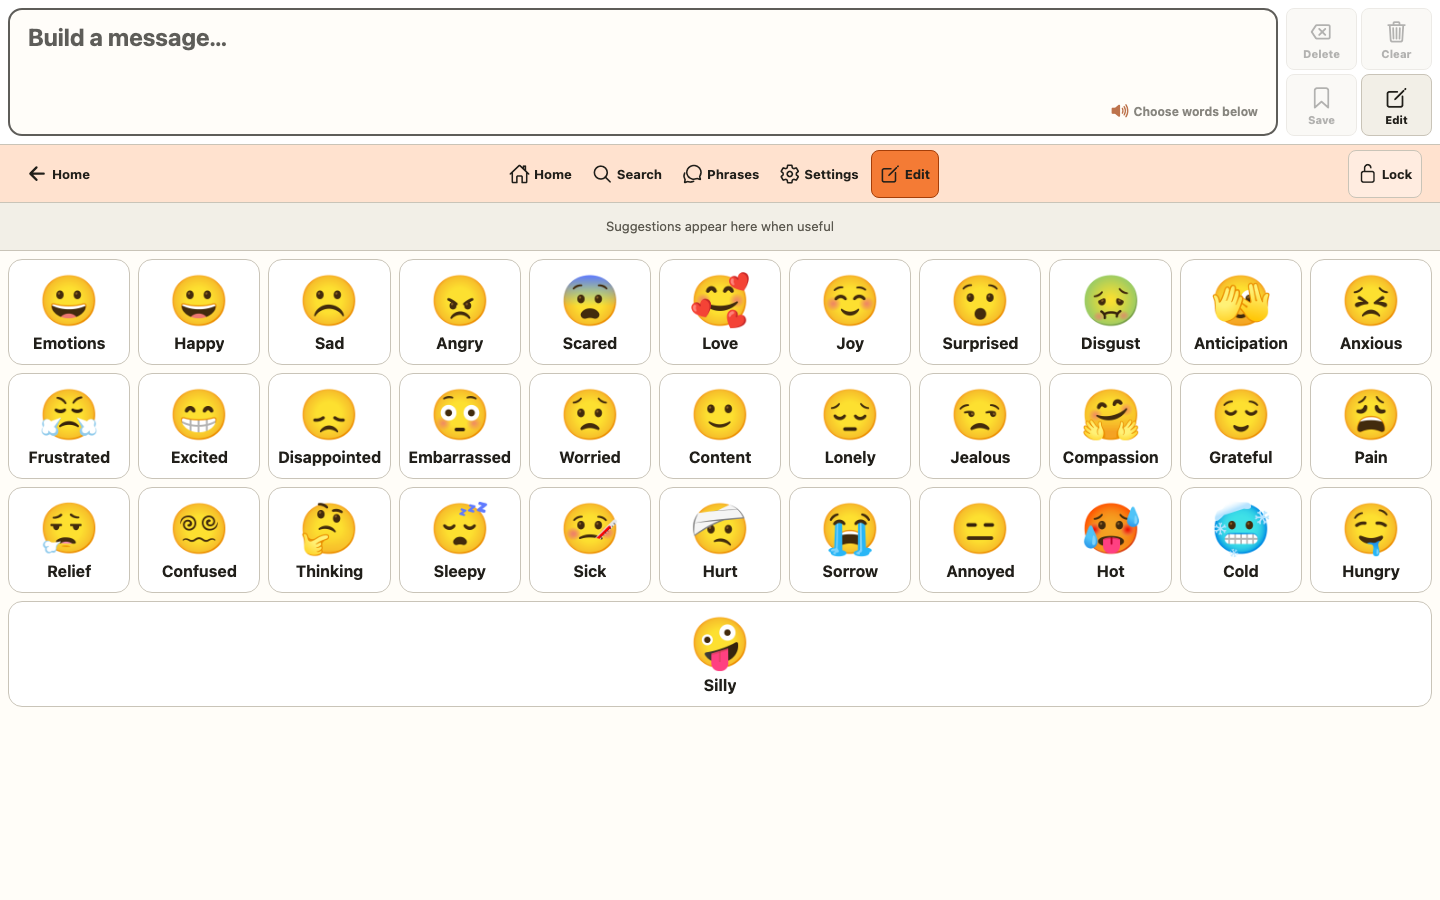
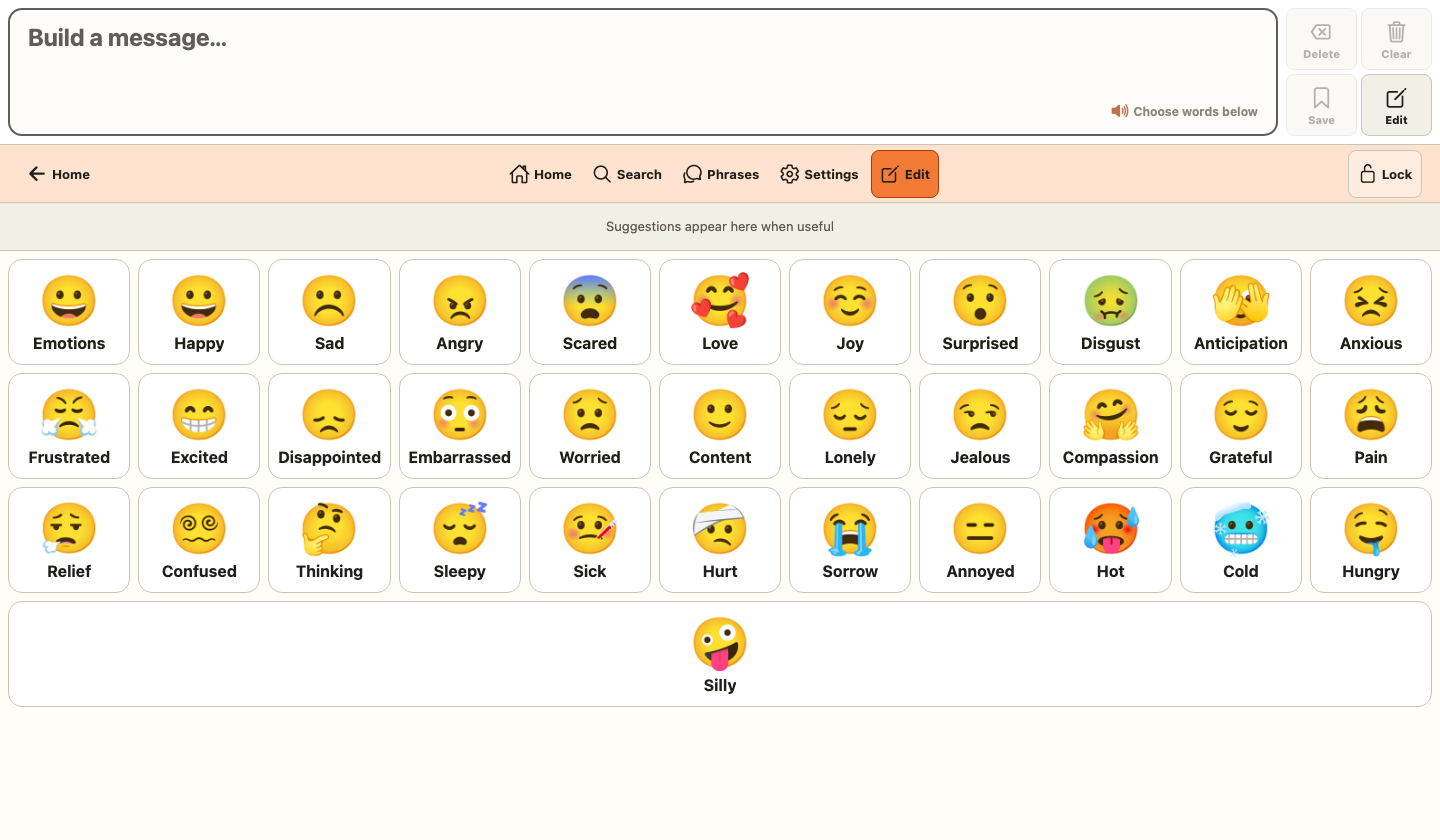
Polish website presentation

Changed region(s): [[0.0, 0.031, 1.0, 0.8357], [0.0, 0.031, 0.1562, 0.0619]]

diff --git a/src/components/DownloadPage/DownloadOptions.tsx b/src/components/DownloadPage/DownloadOptions.tsx
@@ -3,6 +3,7 @@ import {
   SmartphoneIcon as AndroidIcon,
   GlobeIcon,
 } from "lucide-react";
+import Link from "next/link";
 
 interface DownloadCardProps {
   title: string;
@@ -12,6 +13,7 @@ interface DownloadCardProps {
   link?: string;
   status: string;
   available?: boolean;
+  featured?: boolean;
 }
 
 const DownloadCard = ({
@@ -22,53 +24,58 @@ const DownloadCard = ({
   link,
   status,
   available,
+  featured,
 }: DownloadCardProps) => (
-  <div className="bg-black/40 backdrop-blur-sm border border-white/10 rounded-xl p-6 flex flex-col items-center text-center">
-    {icon}
-    <h3 className="text-2xl font-bold mt-4 mb-2">{title}</h3>
-    <p className="text-white/70 mb-4">{description}</p>
+  <article className={`flex h-full flex-col items-center rounded-2xl border p-7 text-center ${featured ? "border-orange-300/40 bg-orange-500/10" : "border-white/10 bg-black/25"}`}>
+    <div className={`grid h-14 w-14 place-items-center rounded-xl ${featured ? "bg-orange-500 text-white" : "bg-white/10 text-white/80"}`}>
+      {icon}
+    </div>
+    <h3 className="mt-5 text-2xl font-bold">{title}</h3>
+    <p className="mb-6 mt-3 flex-1 text-white/70">{description}</p>
     {available && link && buttonText ? (
-      <a href={link} className="bg-orange-500 text-white py-2 px-4 rounded-lg hover:bg-orange-600 transition duration-300">{buttonText}</a>
+      <Link href={link} className="rounded-lg bg-white px-5 py-3 font-medium text-black transition hover:bg-orange-100">{buttonText}</Link>
     ) : (
-      <span className="rounded-lg border border-white/15 bg-white/5 px-4 py-2 font-medium text-white/60">{status}</span>
+      <span className="rounded-lg border border-white/15 bg-white/5 px-5 py-3 font-medium text-white/60">{status}</span>
     )}
-  </div>
+  </article>
 );
 
 export const DownloadOptions = () => {
   return (
-    <div
+    <section
       id="download-options"
-      className="bg-gradient-to-b from-[#94491d] to-[#42210B] pt-24 pb-12"
+      className="scroll-mt-8 bg-[#42210B] px-4 py-20 sm:py-24"
     >
-      <div className="container max-w-6xl mx-auto">
-        <h2 className="text-4xl font-bold text-center mb-12 text-white">
-          Availability
-        </h2>
-        <div className="grid grid-cols-1 md:grid-cols-3 gap-8">
-          <DownloadCard
-            title="iOS"
-            icon={<AppleIcon className="w-16 h-16" />}
-            description="Download SPARK for your iPhone or iPad"
-            status="Coming soon"
-          />
-          <DownloadCard
-            title="Android"
-            icon={<AndroidIcon className="w-16 h-16" />}
-            description="Get SPARK for your Android smartphone or tablet"
-            status="Coming soon"
-          />
+      <div className="container mx-auto max-w-6xl">
+        <div className="mx-auto max-w-2xl text-center">
+          <h2 className="text-4xl font-bold text-white">Choose your platform</h2>
+          <p className="mt-4 text-lg text-white/70">The web app is available now. Mobile versions will appear here when they are ready.</p>
+        </div>
+        <div className="mt-12 grid grid-cols-1 gap-6 md:grid-cols-3">
           <DownloadCard
             title="Web App"
-            icon={<GlobeIcon className="w-16 h-16" />}
-            description="Access SPARK directly from your web browser"
-            buttonText="Launch Web App"
+            icon={<GlobeIcon className="h-7 w-7" aria-hidden="true" />}
+            description="Open SPARK in a current browser without creating an account."
+            buttonText="Open SPARK"
             link="https://web.spark4speech.com"
             status="Available now"
             available
+            featured
+          />
+          <DownloadCard
+            title="iPhone & iPad"
+            icon={<AppleIcon className="h-7 w-7" aria-hidden="true" />}
+            description="A native version for iPhone and iPad is planned."
+            status="Coming later"
+          />
+          <DownloadCard
+            title="Android"
+            icon={<AndroidIcon className="h-7 w-7" aria-hidden="true" />}
+            description="A native version for Android phones and tablets is planned."
+            status="Coming later"
           />
         </div>
       </div>
-    </div>
+    </section>
   );
 };

diff --git a/src/components/DownloadPage/DownloadHero.tsx b/src/components/DownloadPage/DownloadHero.tsx
@@ -2,21 +2,24 @@ import Link from "next/link"
 
 export const DownloadHero = () => {
   return (
-    <div className="bg-gradient-to-b from-black to-[#94491d] text-white pt-24 pb-12 text-center">
-      <div className="container max-w-4xl mx-auto">
-        <h1 className="text-5xl sm:text-6xl font-extrabold tracking-tighter mb-6">
-          Download <span className="text-orange-300">SPARK</span>
+    <section className="bg-gradient-to-b from-black to-[#42210B] px-4 py-20 text-center text-white sm:py-24">
+      <div className="container mx-auto max-w-4xl">
+        <p className="text-sm font-semibold uppercase tracking-[0.2em] text-orange-300">Get SPARK</p>
+        <h1 className="mt-5 text-5xl font-bold tracking-tighter sm:text-6xl">
+          Communicate wherever you are.
         </h1>
-        <p className="text-xl text-white/70 mb-8">
+        <p className="mx-auto mt-6 max-w-2xl text-xl leading-relaxed text-white/70">
           Use SPARK in your browser today. Native iPhone, iPad, and Android releases are coming soon.
         </p>
-        <Link
-          href="#download-options"
-          className="bg-white text-black py-3 px-6 rounded-xl font-medium shadow-xl hover:bg-orange-100 transition duration-300"
-        >
-          See availability
-        </Link>
+        <div className="mt-9 flex flex-col justify-center gap-3 sm:flex-row">
+          <Link href="https://web.spark4speech.com" className="rounded-xl bg-orange-500 px-6 py-3 font-medium text-white transition hover:bg-orange-600">
+            Open SPARK
+          </Link>
+          <Link href="#download-options" className="rounded-xl border border-white/25 px-6 py-3 font-medium text-white transition hover:bg-white/10">
+            View availability
+          </Link>
+        </div>
       </div>
-    </div>
+    </section>
   )
 }

diff --git a/src/app/about/page.tsx b/src/app/about/page.tsx
@@ -51,17 +51,15 @@ export default function AboutPage() {
           </div>
         </section>
 
-        <section className="bg-[#94491d] px-4 py-24" aria-labelledby="mission-heading">
-          <div className="container mx-auto grid max-w-6xl gap-10 lg:grid-cols-[0.8fr_1.2fr] lg:items-start">
-            <h2 id="mission-heading" className="text-4xl font-bold tracking-tight sm:text-5xl">Our mission</h2>
-            <div className="space-y-6 text-xl leading-relaxed text-white/75">
-              <p>
-                We want people to have a communication tool that can grow around their own words, routines, preferences, and access needs.
-              </p>
-              <p>
-                SPARK combines ready-to-use communication boards with flexible editing, helpful offline prediction, saved phrases, and settings that keep important controls within reach.
-              </p>
-            </div>
+        <section className="bg-[#94491d] px-4 pb-20 pt-10 text-center sm:pb-24 sm:pt-14" aria-labelledby="mission-heading">
+          <div className="container mx-auto max-w-4xl">
+            <p className="text-sm font-semibold uppercase tracking-[0.2em] text-orange-200">Our mission</p>
+            <h2 id="mission-heading" className="mt-5 text-4xl font-bold tracking-tight sm:text-5xl">
+              Build communication around the person.
+            </h2>
+            <p className="mx-auto mt-6 max-w-3xl text-xl leading-relaxed text-white/75">
+              SPARK starts with useful communication boards, then gives people room to shape their words, images, speech, and layout around their own lives.
+            </p>
           </div>
         </section>
 

diff --git a/src/components/DownloadPage/DownloadFAQ.tsx b/src/components/DownloadPage/DownloadFAQ.tsx
@@ -13,7 +13,7 @@ const FAQItem = ({ question, answer }: FAQItemProps) => {
   const [isOpen, setIsOpen] = useState(false)
 
   return (
-    <div className="border-b border-white/10 py-4">
+    <div className="border-b border-white/10 py-3">
       <button type="button" aria-expanded={isOpen} className="flex min-h-12 justify-between items-center w-full text-left" onClick={() => setIsOpen(!isOpen)}>
         <span className="text-lg font-medium">{question}</span>
         <ChevronDown className={`w-5 h-5 transition-transform duration-300 ${isOpen ? "transform rotate-180" : ""}`} />
@@ -60,15 +60,15 @@ export const DownloadFAQ = () => {
   ]
 
   return (
-    <div className="bg-gradient-to-b to-[#94491d] from-black py-24">
-      <div className="container max-w-3xl mx-auto">
-        <h2 className="text-4xl font-bold text-center mb-12">Frequently Asked Questions</h2>
+    <section className="bg-gradient-to-b from-[#42210B] to-black px-4 py-20 sm:py-24">
+      <div className="container mx-auto max-w-3xl">
+        <h2 className="mb-10 text-center text-4xl font-bold">Questions</h2>
         <div className="space-y-4">
           {faqs.map((faq, index) => (
             <FAQItem key={index} question={faq.question} answer={faq.answer} />
           ))}
         </div>
       </div>
-    </div>
+    </section>
   )
 }

diff --git a/src/components/FeaturesPage/FeaturesHero.tsx b/src/components/FeaturesPage/FeaturesHero.tsx
@@ -17,9 +17,9 @@ export const FeaturesHero = () => {
               using it.
             </p>
           </div>
-          <div className="lg:w-1/2">
-            <div className="aspect-video rounded-xl overflow-hidden border border-white/15 bg-white shadow-2xl">
-              <Image src={appScreen} alt="SPARK home communication board" className="h-full w-full object-cover object-top" priority />
+          <div className="w-full lg:w-1/2">
+            <div className="overflow-hidden rounded-2xl border border-white/15 bg-white shadow-2xl">
+              <Image src={appScreen} alt="SPARK home communication board" className="block h-auto w-full" priority />
             </div>
           </div>
         </div>

diff --git a/src/app/download/page.tsx b/src/app/download/page.tsx
@@ -3,7 +3,6 @@ import { DownloadHero } from "@/components/DownloadPage/DownloadHero";
 import { DownloadOptions } from "@/components/DownloadPage/DownloadOptions";
 import { DownloadFAQ } from "@/components/DownloadPage/DownloadFAQ";
 import { Footer } from "@/components/Footer";
-import { Final } from "@/components/Final";
 import type { Metadata } from "next";
 
 export const metadata: Metadata = {
@@ -20,7 +19,6 @@ export default function DownloadPage() {
         <DownloadHero />
         <DownloadOptions />
         <DownloadFAQ />
-        <Final />
       </main>
       <Footer />
     </div>
